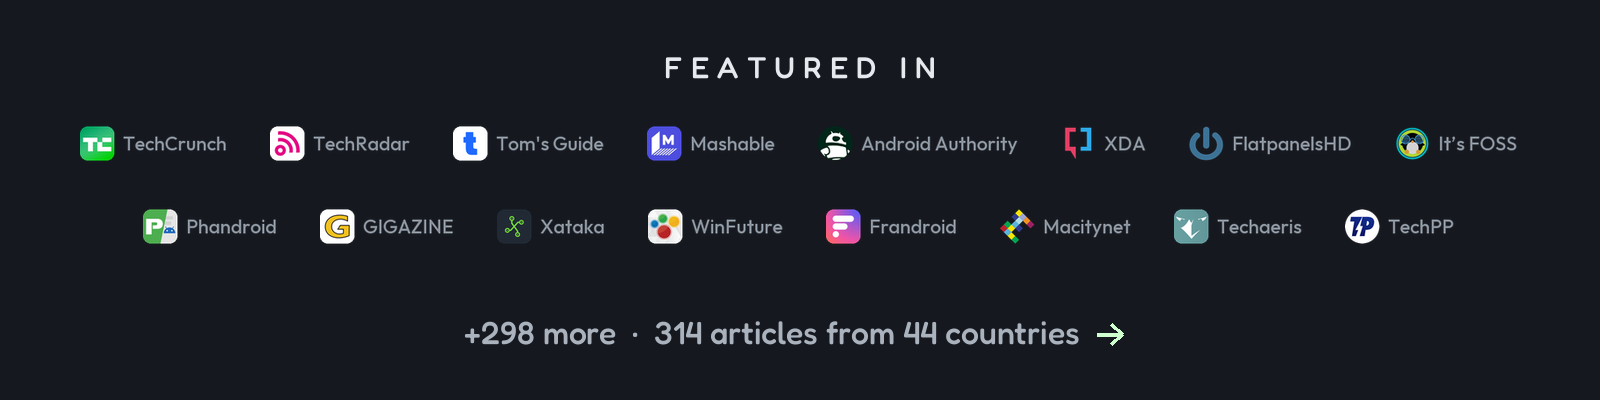
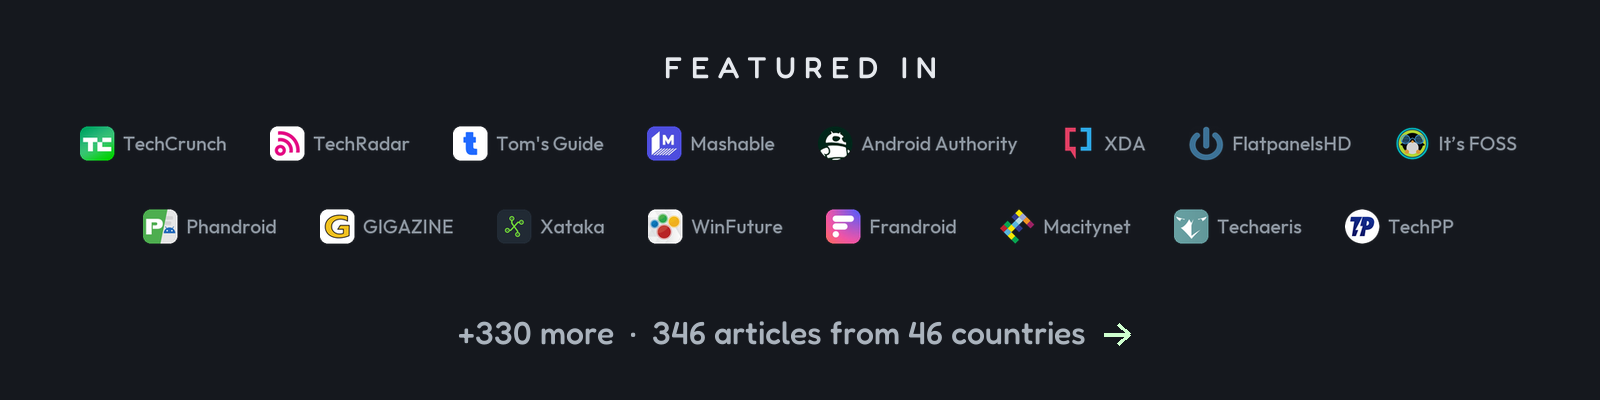
Press: 32 articles from the 30 Oct sweep, 346 from 46 countries
docs/PRESS.md follows the site's lib/press.ts again (Quickfever, added here in #2375, is now on the site too, so both lists hold the same 346). New: MEEDIA and Mein-MMO, Sina Finance, Sohu, China.com and 21财经, Gizmodo Japan, jeuxvideo.com, Một Thế Giới and CafeBiz, HK01, Foro3D, El Chapuzas Informático, ADSLZone, La Razón and BandaAncha, Svetapple.sk and TOUCHIT.sk, Ekhbary24, Observatório Tech, TecnoAndroid and IlSoftware.it, Respawn and Habr, Semana, TugaTech, The Times of India, TechJuice, Bitdoze in English and Spanish, and two new countries, Lithuania (Cybernews) and Morocco (Nichan). Each page was re-opened to confirm it names CleanYourTV, tv-vibehack or Gathin. The card alt text in README.md, README.nl.md and README.de.md and MORE in tools/readme_featured.py move to +330 more, 346 articles from 46 countries; docs/featured.png, docs/card.jpg and docs/card-halloween.jpg are redrawn.

Changed region(s): [[0.2812, 0.81, 0.7188, 0.87], [0.4375, 0.15, 0.5938, 0.21]]

diff --git a/tests/test_press_counts.py b/tests/test_press_counts.py
@@ -335,7 +335,7 @@ class VideoReaderTest(unittest.TestCase):
         self.assertEqual([], video_problems(self.page(rows, count=2)))
 
     def test_the_article_rows_are_not_read_as_videos(self):
-        # The real page opens with 314 article rows over 46 sections; only what follows '## Videos' is a video.
+        # The real page opens with 346 article rows over 48 sections; only what follows '## Videos' is a video.
         problems = video_problems(self.page([self.row(1)], count=1))
         self.assertEqual([], problems)
         self.assertEqual(1, len(videos(self.page([self.row(1)], count=1))))

diff --git a/tools/readme_card.py b/tools/readme_card.py
@@ -222,7 +222,7 @@ def decorate(card):
 stats, featured = load("docs/stats-halloween.png" if HALLOWEEN else "docs/stats.png"), load("docs/featured.png")
 if HALLOWEEN:
     heading(featured, (650, 50, 950, 85))     # "FEATURED IN"
-    tint(featured, (1090, 315, 1135, 352))    # the arrow after "314 articles"
+    tint(featured, (1090, 315, 1135, 352))    # the arrow after "346 articles"
 parts = [stats, featured, tv]
 SEP = 24  # extra air on each side of a divider
 H = sum(p.height for p in parts) + 2 * SEP * (len(parts) - 1)

diff --git a/tools/readme_featured.py b/tools/readme_featured.py
@@ -63,7 +63,7 @@ if OUT_PROBLEM:
 
 LOGOS = ["techcrunch", "techradar", "tomsguide", "mashable", "androidauthority", "xda", "flatpanelshd", "itsfoss",
          "phandroid", "gigazine", "xataka", "winfuture", "frandroid", "macitynet", "techaeris", "techpp"]
-MORE = "+298 more  ·  314 articles from 44 countries"
+MORE = "+330 more  ·  346 articles from 46 countries"
 
 
 def logo_problem():

diff --git a/docs/PRESS.md b/docs/PRESS.md
@@ -1,10 +1,10 @@
 # CleanYourTV in the press
 
-Every article about CleanYourTV (called tv-vibehack until 19 October 2026) that we could open and check: **314 articles**, 265 of them from outlets in 44 countries, 10 from Spanish-language sites in Latin America and 39 from newsletters, blogs and AI news sites. Headlines are in the language they were published in. Syndicated copies and auto-generated listings are left out. [147 videos](#videos) follow the articles.
+Every article about CleanYourTV (called tv-vibehack until 19 October 2026) that we could open and check: **346 articles**, 294 of them from outlets in 46 countries, 11 from Spanish-language sites in Latin America and 41 from newsletters, blogs and AI news sites. Headlines are in the language they were published in. Syndicated copies and auto-generated listings are left out. [147 videos](#videos) follow the articles.
 
 Wrote about it and not here? Open an issue or a pull request with the link.
 
-[United States](#united-states)&nbsp;24 · [United Kingdom](#united-kingdom)&nbsp;5 · [India](#india)&nbsp;5 · [Denmark](#denmark)&nbsp;1 · [Japan](#japan)&nbsp;4 · [Bangladesh](#bangladesh)&nbsp;2 · [United Arab Emirates](#united-arab-emirates)&nbsp;1 · [France](#france)&nbsp;20 · [Germany](#germany)&nbsp;8 · [Spain](#spain)&nbsp;9 · [Italy](#italy)&nbsp;17 · [Norway](#norway)&nbsp;1 · [Portugal](#portugal)&nbsp;5 · [Czechia](#czechia)&nbsp;4 · [Ukraine](#ukraine)&nbsp;4 · [Greece](#greece)&nbsp;6 · [Egypt](#egypt)&nbsp;5 · [Brazil](#brazil)&nbsp;17 · [Latin America (Spanish-language)](#latin-america-spanish-language)&nbsp;10 · [China](#china)&nbsp;31 · [Taiwan](#taiwan)&nbsp;8 · [Indonesia](#indonesia)&nbsp;18 · [Thailand](#thailand)&nbsp;3 · [Vietnam](#vietnam)&nbsp;9 · [Netherlands](#netherlands)&nbsp;4 · [Poland](#poland)&nbsp;8 · [Russia](#russia)&nbsp;13 · [Belarus](#belarus)&nbsp;2 · [Turkey](#turkey)&nbsp;4 · [Jordan](#jordan)&nbsp;1 · [South Korea](#south-korea)&nbsp;4 · [Australia](#australia)&nbsp;2 · [Pakistan](#pakistan)&nbsp;1 · [Hungary](#hungary)&nbsp;2 · [Saudi Arabia](#saudi-arabia)&nbsp;1 · [Romania](#romania)&nbsp;3 · [Sweden](#sweden)&nbsp;2 · [Hong Kong](#hong-kong)&nbsp;2 · [Bulgaria](#bulgaria)&nbsp;2 · [Slovakia](#slovakia)&nbsp;1 · [Belgium](#belgium)&nbsp;1 · [Kenya](#kenya)&nbsp;1 · [Israel](#israel)&nbsp;2 · [Finland](#finland)&nbsp;1 · [Serbia](#serbia)&nbsp;1 · [Online (newsletters, blogs, AI news)](#online-newsletters-blogs-ai-news)&nbsp;39
+[United States](#united-states)&nbsp;24 · [United Kingdom](#united-kingdom)&nbsp;5 · [India](#india)&nbsp;6 · [Denmark](#denmark)&nbsp;1 · [Japan](#japan)&nbsp;5 · [Bangladesh](#bangladesh)&nbsp;2 · [United Arab Emirates](#united-arab-emirates)&nbsp;1 · [France](#france)&nbsp;21 · [Germany](#germany)&nbsp;10 · [Spain](#spain)&nbsp;14 · [Italy](#italy)&nbsp;19 · [Norway](#norway)&nbsp;1 · [Portugal](#portugal)&nbsp;6 · [Czechia](#czechia)&nbsp;4 · [Ukraine](#ukraine)&nbsp;4 · [Greece](#greece)&nbsp;6 · [Egypt](#egypt)&nbsp;6 · [Brazil](#brazil)&nbsp;18 · [Latin America (Spanish-language)](#latin-america-spanish-language)&nbsp;11 · [China](#china)&nbsp;35 · [Taiwan](#taiwan)&nbsp;8 · [Indonesia](#indonesia)&nbsp;18 · [Thailand](#thailand)&nbsp;3 · [Vietnam](#vietnam)&nbsp;11 · [Netherlands](#netherlands)&nbsp;4 · [Poland](#poland)&nbsp;8 · [Russia](#russia)&nbsp;15 · [Belarus](#belarus)&nbsp;2 · [Turkey](#turkey)&nbsp;4 · [Jordan](#jordan)&nbsp;1 · [South Korea](#south-korea)&nbsp;4 · [Australia](#australia)&nbsp;2 · [Pakistan](#pakistan)&nbsp;2 · [Hungary](#hungary)&nbsp;2 · [Saudi Arabia](#saudi-arabia)&nbsp;1 · [Romania](#romania)&nbsp;3 · [Sweden](#sweden)&nbsp;2 · [Hong Kong](#hong-kong)&nbsp;3 · [Bulgaria](#bulgaria)&nbsp;2 · [Slovakia](#slovakia)&nbsp;3 · [Belgium](#belgium)&nbsp;1 · [Kenya](#kenya)&nbsp;1 · [Israel](#israel)&nbsp;2 · [Finland](#finland)&nbsp;1 · [Serbia](#serbia)&nbsp;1 · [Lithuania](#lithuania)&nbsp;1 · [Morocco](#morocco)&nbsp;1 · [Online (newsletters, blogs, AI news)](#online-newsletters-blogs-ai-news)&nbsp;41
 
 ## United States
 
@@ -54,6 +54,7 @@ Wrote about it and not here? Open an issue or a pull request with the link.
 | SSBCrack News | [DIY Hacks Allow Consumers to "Vibe-Code" Their Smart TVs, Eliminating Ads and Bloatware](https://news.ssbcrack.com/diy-hacks-allow-consumers-to-vibe-code-their-smart-tvs-eliminating-ads-and-bloatware/) | 19&nbsp;Oct |
 | Analytics Insight | [How AI Tools Can Make Old Smart TVs Faster](https://www.analyticsinsight.net/ampstories/artificial-intelligence/how-ai-tools-can-make-old-smart-tvs-faster) | 21&nbsp;Oct |
 | Fossbytes | [People Are Using Vibe Coding to Block Ads on Smart TVs](https://fossbytes.com/people-are-using-vibe-coding-to-block-ads-on-smart-tvs/) | 26&nbsp;Oct |
+| The Times of India | [Why smart TV owners are using AI to make their televisions 'dumb', and the risks that come with it](https://timesofindia.indiatimes.com/technology/tech-news/why-smart-tv-owners-are-using-ai-to-make-their-televisions-dumb-and-the-risks-that-come-with-it/articleshow/135264894.cms) | 28&nbsp;Oct |
 
 ## Denmark
 
@@ -69,6 +70,7 @@ Wrote about it and not here? Open an issue or a pull request with the link.
 | 生成AIキュレーター (note) | [4年前のテレビをClaudeに任せた開発者、プロンプトの大半は「禁止事項」だった——8つのルールから読むエージェントの任せ方](https://note.com/ai_curator/n/ne9a7dff77e27) | 20&nbsp;Oct |
 | note (Yuki) | [Google TVとAndroid TVのUIをクリーンに！Gathin23/cleanyourtvの解説](https://note.com/arti_sanal/n/n9fcaa04939eb) | 20&nbsp;Oct |
 | テクノエッジ TechnoEdge | [Android/Google TVの“広告やおすすめ枠”を消してApple TV風シンプルUIにするOSS無料ツール「CleanYourTV」](https://www.techno-edge.net/article/2026/10/27/5632.html) | 27&nbsp;Oct |
+| ギズモード・ジャパン Gizmodo Japan | [AIを駆使してスマートテレビを「古き良き時代のテレビ」に戻す人たち。](https://www.gizmodo.jp/article/2610-ai-smart-tv-retro/) | 30&nbsp;Oct |
 
 ## Bangladesh
 
@@ -107,6 +109,7 @@ Wrote about it and not here? Open an issue or a pull request with the link.
 | LoKan.fr | [Accélérer sa vieille TV Android avec Claude Code](https://lokan.fr/2026/10/24/comment-accelerer-tv-android-claude-code/) | 24&nbsp;Oct |
 | BuzzArena | [Ils supprimaient la publicité de leur TV Xiaomi avec Claude, Anthropic leur bloque l'accès à l'IA](https://www.buzzarena.com/ils-supprimaient-la-publicite-de-leur-tv-xiaomi-avec-claude-anthropic-leur-bloque-lacces-a-lia-4566360) | 26&nbsp;Oct |
 | Frandroid | [Samsung sous Tizen OS : on a construit un accueil sans pub avec l’IA](https://www.frandroid.com/marques/samsung/3298629_samsung-sous-tizen-os-on-a-construit-un-accueil-sans-pub-avec-lia) | 26&nbsp;Oct |
+| jeuxvideo.com | [Pour retirer les publicités et rendre la navigation plus fluide sur leur TV, les gamers ont trouvé une nouvelle solution](https://www.jeuxvideo.com/news/2111356/pour-retirer-les-publicites-et-rendre-la-navigation-plus-fluide-sur-leur-tv-les-gamers-ont-trouve-une-nouvelle-solution.htm) | 30&nbsp;Oct |
 
 ## Germany
 
@@ -120,6 +123,8 @@ Wrote about it and not here? Open an issue or a pull request with the link.
 | TechZeitGeist | [Werbung auf dem Smart-TV: Was sich abschalten lässt und was nicht](https://www.techzeitgeist.de/werbung-auf-dem-smart-tv-was-sich-abschalten-laesst-und-was-nicht/) | 24&nbsp;Oct |
 | iFun.de | [CleanYourTV: Befreit Android-TVs von Werbung und Ballast](https://www.ifun.de/cleanyourtv-befreit-android-tvs-von-werbung-und-ballast-293435/) | 26&nbsp;Oct |
 | Golem.de | [Entrümpelung per Agent-KI: Agenten entfernen Werbung von Smart-TVs](https://www.golem.de/news/entruempelung-per-agent-ki-agenten-entfernen-werbung-von-smart-tvs-2610-214283.html) | – |
+| MEEDIA | [Vibe Coding gegen die Werbeflut: Wenn Smart-TV-Besitzer das Betriebssystem hacken](https://meedia.de/news/beitrag/25333-vibe-coding-gegen-werbung-wenn-smart-tv-besitzer-das-betriebssystem-hacken.html) | 30&nbsp;Oct |
+| Mein-MMO | [Ein Nutzer baut eine App mit Claude, um das TV-Gerät seiner Eltern von unnötiger Software zu befreien](https://mein-mmo.de/vibecoder-baut-app-claude-tv-reinigen/) | 28&nbsp;Oct |
 
 ## Spain
 
@@ -134,6 +139,11 @@ Wrote about it and not here? Open an issue or a pull request with the link.
 | Soy Marketing Ultra | [CleanYourTV: Remove Android TV Bloatware Safely](https://soymarketingultra.com/en/remove-android-tv-bloatware-cleanyourtv/) | 24&nbsp;Oct |
 | App Guías (Nederlands) | [AI om advertenties van smart-tv](https://www.appguias.com/nl/Advertentieverwijdering-op-slimme-tv's-met-behulp-van-AI:-wat-werkt-en-wat-niet/) | 21&nbsp;Oct |
 | Seguidores.online (Nederlands) | [AI verwijdert advertenties van je smart-tv: hoe werkt het?](https://seguidores.online/nl/De-AI-die-advertenties-van-je-smart-tv-verwijdert./) | 21&nbsp;Oct |
+| Foro3D | [CleanYourTV 3.0: control total de tu Android TV sin root y con 300 modelos](https://foro3d.com/2026/octubre/cleanyourtv-30-control-total-de-tu-android-tv-sin-root-y-con-300-model.html) | 29&nbsp;Oct |
+| El Chapuzas Informático | [CleanYourTV 3.0: así puedes eliminar anuncios y bloatware de tu TV Android y Google TV](https://elchapuzasinformatico.com/2026/10/cleanyourtv-3-0/) | 28&nbsp;Oct |
+| ADSLZone | [Mi Smart TV estaba llena de basura, publicidad y aplicaciones que nunca pedí: he recuperado el control sin pagar un duro](https://www.adslzone.net/noticias/streaming-tv/cleanyourtv-limpiar-smart-tv-android-tv-google/) | 27&nbsp;Oct |
+| La Razón | [Usuarios hartos de la publicidad en sus televisores recurren a la IA para eliminarla](https://www.larazon.es/tecnologia/usuarios-hartos-publicidad-sus-televisores-recurren-eliminarla_202610276ae0e294a2570c1961b34b6a.html) | 27&nbsp;Oct |
+| BandaAncha (forum) | [Clean Your TV: limpia la publicidad y el bloatware de tu Android TV desde el móvil, sin PC ni cables.](https://bandaancha.eu/foros/clean-your-tv-limpia-publicidad-1761313) | 25&nbsp;Oct |
 
 ## Italy
 
@@ -156,6 +166,8 @@ Wrote about it and not here? Open an issue or a pull request with the link.
 | Pasquale Pillitteri | [Researcher claims Samsung TV microphone is always on](https://pasqualepillitteri.it/en/news/26796/samsung-tvs-researcher-claims-microphone-always-on) | 24&nbsp;Oct |
 | Pasquale Pillitteri | [How to turn off the Samsung TV microphone for dogs and babies](https://pasqualepillitteri.it/en/news/27088/how-to-turn-off-samsung-tv-microphone-dogs-babies) | 25&nbsp;Oct |
 | Pasquale Pillitteri | [Claude Opus 5.5 blocca il reverse engineering delle smart TV?](https://pasqualepillitteri.it/news/27019/claude-opus-5-5-blocca-reverse-engineering-smart-tv) | 25&nbsp;Oct |
+| TecnoAndroid | [Claude Code libera le smart TV da pubblicità e tracciamento](https://www.tecnoandroid.it/news/claude-code-libera-le-smart-tv-da-pubblicita-e-tracciamento-2000117/) | 28&nbsp;Oct |
+| IlSoftware.it | [CleanYourTV 3.0 elimina pubblicità e bloatware da 300 modelli di TV](https://www.ilsoftware.it/cleanyourtv-3-0-elimina-pubblicita-e-bloatware-da-300-modelli-di-tv/) | 28&nbsp;Oct |
 
 ## Norway
 
@@ -172,6 +184,7 @@ Wrote about it and not here? Open an issue or a pull request with the link.
 | 4gnews | [Estas ferramentas de IA prometem acabar com os anúncios das Smart TVs](https://4gnews.pt/estas-ferramentas-de-ia-prometem-acabar-com-os-anuncios-das-smart-tvs/) | 21&nbsp;Oct |
 | TugaTech | [Utilizadores estão a usar IA para tornar as suas Smart TVs mais "estúpidas" e remover publicidade](https://tugatech.com.pt/t92999-utilizadores-estao-a-usar-ia-para-tornar-as-suas-smart-tvs-mais-estupidas-e-remover-publicidade) | – |
 | SAPO Tek | [TV Detox: o projeto que usa o Claude para limpar a smart TV de aplicações e publicidade](https://tek.sapo.pt/noticias/computadores/artigos/tv-detox-o-projeto-que-usa-o-claude-para-limpar-a-smart-tv-de-aplicacoes-e-publicidade/) | 24&nbsp;Oct |
+| TugaTech | [CleanYourTV 3.0 chega para remover anúncios e bloatware de centenas de televisões](https://tugatech.com.pt/t93531-cleanyourtv-3-0-chega-para-remover-anuncios-e-bloatware-de-centenas-de-televisoes) | 28&nbsp;Oct |
 
 ## Czechia
 
@@ -211,6 +224,7 @@ Wrote about it and not here? Open an issue or a pull request with the link.
 | Youm7 (اليوم السابع) | [الذكاء الاصطناعي يساعد المستخدمين على حذف إعلانات التلفزيون الذكية](https://www.youm7.com/story/2026/10/22/الذكاء-الاصطناعي-يساعد-المستخدمين-على-حذف-إعلانات-التلفزيون-الذكية/7586888) | 22&nbsp;Oct |
 | Sada El Balad (صدى البلد) | [وداعاً للإعلانات المزعجة.. الذكاء الاصطناعي يطهر شاشات التلفزيون الذكية](https://www.elbalad.news/7149578) | 21&nbsp;Oct |
 | Fintechgate | [الذكاء الاصطناعي يحوّل أجهزة التلفزيون الذكية إلى شاشات خالية من الإعلانات والتجسس](https://www.fintechgate.net/254958) | 19&nbsp;Oct |
+| Ekhbary24 (إخباري 24) | [الذكاء الاصطناعي ينظف شاشات التلفزيون الذكية من الإعلانات](https://ekhbary24.com/article/29355) | 29&nbsp;Oct |
 
 ## Brazil
 
@@ -233,6 +247,7 @@ Wrote about it and not here? Open an issue or a pull request with the link.
 | Hardware.com.br | [Usuários usam IA para remover anúncios e rastreamento de smart TVs](https://www.hardware.com.br/?p=384756) | 24&nbsp;Oct |
 | O Cafezinho | [Donos de smart TV usam IA para tirar anúncios e rastreamento, diz TechCrunch](https://www.ocafezinho.com/2026-10-19/donos-de-smart-tv-usam-ia-para-tirar-anuncios-e-rastreamento-diz-techcrunch/) | 19&nbsp;Oct |
 | Ver-o-Fato | [Inteligência artificial permite modificar smart TVs e eliminar aplicativos indesejados](https://ver-o-fato.com.br/inteligencia-artificial-permite-modificar-smart-tvs-e-eliminar-aplicativos-indesejados/) | 23&nbsp;Oct |
+| Observatório Tech | [Adeus lentidão e anúncios: projeto viral promete limpeza visual em Smart TVs](https://observatoriotech.com.br/noticia/adeus-lentidao-e-anuncios-projeto-viral-promete-limpeza-visual-em-smart-tvs/) | 29&nbsp;Oct |
 
 ## Latin America (Spanish-language)
 
@@ -248,6 +263,7 @@ Wrote about it and not here? Open an issue or a pull request with the link.
 | OneDigital | [CleanYourTV limpia tu Android TV de publicidad con IA](https://onedigital.mx/2026/10/21/cleanyourtv-limpiar-android-tv/) | 21&nbsp;Oct |
 | ENTER.CO | [¿Cómo volver 'tonto' tu smart TV con IA para quitarle los anuncios?](https://www.enter.co/chips-bits/como-volver-tonto-smart-tv-ia-anuncios/) | 21&nbsp;Oct |
 | Digital Trends Español | [Cómo usar IA para convertir tu Smart TV en una TV “tonta” y eliminar anuncios, rastreo y bloatware](https://es.digitaltrends.com/inteligente/como-usar-ia-convertir-smart-tv-tv-tonta-guia/) | 20&nbsp;Oct |
+| Semana | [Cómo quitar los anuncios de los televisores con inteligencia artificial: el truco para reducir la publicidad invasiva](https://www.semana.com/tecnologia/articulo/como-quitar-los-anuncios-de-los-televisores-con-inteligencia-artificial-el-truco-para-reducir-la-publicidad-invasiva/202654/) | 28&nbsp;Oct |
 
 ## China
 
@@ -284,6 +300,10 @@ Wrote about it and not here? Open an issue or a pull request with the link.
 | CSDN | [5 分钟上手：用 AI 把智能电视的广告和垃圾软件一键清干净](https://blog.csdn.net/gitblog_01132/article/details/168661872) | – |
 | 知乎专栏 Zhihu | [让 Claude Code 爆改电视，这个开源项目有点意思！](https://zhuanlan.zhihu.com/p/2095920498823652264) | – |
 | 知乎专栏 Zhihu | [安卓 TV 去广告开源工具走红，电视厂商广告收入承压](https://zhuanlan.zhihu.com/p/2095856104622368561) | – |
+| 新浪财经 Sina Finance | [AI帮用户关广告，小米们的“互联网模式”迎来大考](https://finance.sina.com.cn/stock/t/2026-10-30/doc-iniwyfvy5653644.shtml) | 30&nbsp;Oct |
+| 搜狐 Sohu | [电视去广告、小米跑iOS和鸿蒙？！AI总算干点“人事”了……](https://m.sohu.com/a/1094844169_463965) | 30&nbsp;Oct |
+| 中华网 China.com | [网友嫌广告太多用AI爆改电视 智能电视大扫除](https://news.china.com/socialgd/10000169/20261029/49826394.html) | 29&nbsp;Oct |
+| 21财经 | [用AI“一键清理”智能电视广告：门槛消失后，法律红线在哪？](https://www.21jingji.com/article/20261027/herald/dfe53dfe0806e95afe60d64053079ea7.html) | 27&nbsp;Oct |
 
 ## Taiwan
 
@@ -342,6 +362,8 @@ Wrote about it and not here? Open an issue or a pull request with the link.
 | 24h.com.vn | [Nở rộ trào lưu dùng AI dọn dẹp quảng cáo và phần mềm rác trên Smart TV](https://www.24h.com.vn/cong-nghe-thong-tin/no-ro-trao-luu-dung-ai-don-dep-quang-cao-va-phan-mem-rac-tren-smart-tv-c55a1805057.html) | 23&nbsp;Oct |
 | GenK | [Nhờ Claude vibe code biến TV thành "Jarvis", nói một câu là Netflix tự chạy](https://genk.vn/nho-claude-vibe-code-bien-tv-thanh-jarvis-noi-mot-cau-la-netflix-tu-chay-165262610142221263.chn) | 26&nbsp;Oct |
 | Báo Hà Tĩnh | [Dùng Claude để "giải cứu" ti vi cũ](https://baohatinh.vn/dung-claude-de-giai-cuu-ti-vi-cu-post319150.html) | 22&nbsp;Oct |
+| Một Thế Giới | [Trào lưu dùng AI tạo ứng dụng chặn quảng cáo trên TV thông minh](https://1thegioi.vn/trao-luu-dung-ai-tao-ung-dung-chan-quang-cao-tren-tv-thong-minh-260702.html) | 30&nbsp;Oct |
+| CafeBiz | [Nhờ Claude vibe code biến TV thành "Jarvis", nói một câu là Netflix tự chạy](https://cafebiz.vn/nho-claude-vibe-code-bien-tv-thanh-jarvis-noi-mot-cau-la-netflix-tu-chay-176261026203322156.chn) | 27&nbsp;Oct |
 
 ## Netherlands
 
@@ -382,6 +404,8 @@ Wrote about it and not here? Open an issue or a pull request with the link.
 | Carexpo.ru | [Умные телевизоры становятся «глупыми»: ИИ помогает избавиться от рекламы и слежки](https://carexpo.ru/ii-na-strazhe-vashikh-nervov-kak-sdelat-televizor-glupym-i-izbavitsya-ot-reklamy) | 25&nbsp;Oct |
 | Habr | [OpenAI и Anthropic ограничили использование своих ИИ-моделей для создания бесплатных клонов платного ПО](https://habr.com/ru/news/1099152/) | 26&nbsp;Oct |
 | Клуб DNS | [Владельцы умных телевизоров стали использовать ИИ для отключения рекламы и слежки](https://club.dns-shop.ru/digest/186725-vladeltsyi-umnyih-televizorov-stali-ispolzovat-ii-dlya-otklucheniya/) | 20&nbsp;Oct |
+| Respawn | [Что на самом деле умеет смарт-ТВ, если подключить к нему ИИ](https://respawn.media/tech/7v6ex-chto-na-samom-dele-umeet-smart-tv-esli-podklyuchit-k-nemu-ii) | 28&nbsp;Oct |
+| Habr | [Вылечил лагающий телевизор Xiaomi за 10 минут: реклама, слежка и YouTube — без root и с откатом](https://habr.com/ru/articles/1097472/) | 21&nbsp;Oct |
 
 ## Belarus
 
@@ -426,6 +450,7 @@ Wrote about it and not here? Open an issue or a pull request with the link.
 | Outlet | Article | Date |
 | --- | --- | --- |
 | ProPakistani | [People Are Using AI to Make Smart TVs Faster, Safer, and Ad-Free](https://propakistani.pk/2026/10/21/people-are-using-ai-to-make-smart-tvs-faster-safer-and-ad-free/) | 21&nbsp;Oct |
+| TechJuice | [AI Tools Can Unlock Hidden CarPlay in Android Car Head Units](https://www.techjuice.pk/hidden-carplay-android-head-units-ai-unlock-trend/) | 27&nbsp;Oct |
 
 ## Hungary
 
@@ -461,6 +486,7 @@ Wrote about it and not here? Open an issue or a pull request with the link.
 | --- | --- | --- |
 | 流動日報 New Mobile Life | [CleanYourTV 經 Wi-Fi 清理 Android 電視　換上 Apple TV 風格主畫面](https://www.newmobilelife.com/2026/10/24/cleanyourtv-android-tv-cleanup/) | 24&nbsp;Oct |
 | ezone.hk | [智能電視成日滿屏廣告？外國掀起「Dumb TV」熱潮　用 AI 清走廣告廢 App 還原極簡風格【附熱門工具推薦】](https://ezone.hk/article/20115279) | 26&nbsp;Oct |
+| 香港01 HK01 | [Android TV廣告多好Lag？教你靠AI提速　主畫面秒變Apple TV](https://www.hk01.com/%E5%AF%A6%E7%94%A8%E6%95%99%E5%AD%B8/60404790/android-tv%E5%BB%A3%E5%91%8A%E5%A4%9A%E5%A5%BDlag-%E6%95%99%E4%BD%A0%E9%9D%A0ai%E6%8F%90%E9%80%9F-%E4%B8%BB%E7%95%AB%E9%9D%A2%E7%A7%92%E8%AE%8Aapple-tv) | 29&nbsp;Oct |
 
 ## Bulgaria
 
@@ -474,6 +500,8 @@ Wrote about it and not here? Open an issue or a pull request with the link.
 | Outlet | Article | Date |
 | --- | --- | --- |
 | Gamesite.sk | [Zmenili váš televízor na reklamnú plochu? Vývojári si vďaka AI pripravili nástroje, ktoré tomu zabránia](https://gamesite.zoznam.sk/zmenili-vas-televizor-na-reklamnu-plochu-vyvojari-si-vdaka-ai-pripravili-nastroje-ktore-tomu-zabrania/) | 20&nbsp;Oct |
+| Svetapple.sk | [Ľudia mažú reklamy zo Smart TV pomocou AI. Stačí 15 minút, no hrozí VEĽKÉ riziko](https://svetapple.sk/lifestyle/tv-streamovacie-platformy/ludia-mazu-reklamy-zo-smart-tv-pomocou-ai-staci-15-minut-no-hrozi-velke-riziko/) | 29&nbsp;Oct |
+| TOUCHIT.sk | [Špeciálne aplikácie odstránia zo Smart TV reklamy a upravia rozhranie](https://touchit.sk/specialne-aplikacie-odstrania-zo-smart-tv-reklamy-a-upravia-rozhranie/934163/) | 27&nbsp;Oct |
 
 ## Belgium
 
@@ -505,6 +533,18 @@ Wrote about it and not here? Open an issue or a pull request with the link.
 | Outlet | Article | Date |
 | --- | --- | --- |
 | Kurir | [Ljudi koriste AI da uklone reklame sa pametnih televizora: Evo kako ih vraćaju na staro](https://www.kurir.rs/techvision/saveti/10139632/reklame-na-pametnim-televizorima-kako-ih-ukloniti-uz-ai) | 20&nbsp;Oct |
+
+## Lithuania
+
+| Outlet | Article | Date |
+| --- | --- | --- |
+| Cybernews | [Smart TV debloating movement explodes on GitHub: AI removes tracking](https://cybernews.com/security/smart-tv-debloating-movement-cleanyourtv-explodes-on-github/) | 27&nbsp;Oct |
+
+## Morocco
+
+| Outlet | Article | Date |
+| --- | --- | --- |
+| Nichan (نيشان) | [الذكاء الاصطناعي يقود تمرداً على إعلانات التلفزيونات الذكية وجمع بيانات المشاهدة](https://nichan.ma/373118/) | 27&nbsp;Oct |
 
 ## Online (newsletters, blogs, AI news)
 
@@ -548,6 +588,8 @@ Wrote about it and not here? Open an issue or a pull request with the link.
 | PaidFreeDroid | [CleanYourTV Guide: Remove Ads From Android TV in 5 Minutes](https://paidfreedroid.com/2026/10/cleanyourtv-guide-remove-android-tv-ads-bloatware.html) | 24&nbsp;Oct |
 | daily.dev | [People are using AI to make their smart TVs dumb again](https://daily.dev/posts/people-are-using-ai-to-make-their-smart-tvs-dumb-again-w4vznkz9w) | 19&nbsp;Oct |
 | Archyde | [Smart TV Owners Use AI Coding Assistants to Remove Bloatware](https://www.archyde.com/smart-tv-owners-use-ai-coding-assistants-to-remove-bloatware/) | 20&nbsp;Oct |
+| Bitdoze | [Replace Smart TV Home Screen & Remove Ads (Every TV OS)](https://www.bitdoze.com/smart-tv-custom-home-screen-remove-ads/) | 26&nbsp;Oct |
+| Bitdoze (Español) | [Cambia la Pantalla de Inicio de tu Smart TV sin Anuncios](https://www.bitdoze.com/es/pantalla-inicio-smart-tv-sin-anuncios/) | 26&nbsp;Oct |
 | Quickfever | [How to Debloat Your Android TV Using Antigravity (CleanYourTV Guide)](https://quickfever.com/how-to-debloat-your-android-tv-using-antigravity) | 28&nbsp;Oct |
 
 ## Videos

diff --git a/README.nl.md b/README.nl.md
@@ -26,7 +26,7 @@
 </p>
 
 <p align="center">
-  <a href="docs/PRESS.md"><img src="docs/card-halloween.jpg" alt="371 tv-modellen · 100 merken · 31 talen · launcher van 572 KB. Genoemd in TechCrunch, TechRadar, Tom's Guide, Mashable, Android Authority, XDA, FlatpanelsHD, It's FOSS, Phandroid, GIGAZINE, Xataka, WinFuture, Frandroid, Macitynet, Techaeris, TechPP en nog 298 media: 314 artikelen uit 44 landen. Voorheen: het standaard Google TV-startscherm met een gesponsorde advertentie. Daarna: de Clean Your TV-launcher." width="800"></a>
+  <a href="docs/PRESS.md"><img src="docs/card-halloween.jpg" alt="371 tv-modellen · 100 merken · 31 talen · launcher van 572 KB. Genoemd in TechCrunch, TechRadar, Tom's Guide, Mashable, Android Authority, XDA, FlatpanelsHD, It's FOSS, Phandroid, GIGAZINE, Xataka, WinFuture, Frandroid, Macitynet, Techaeris, TechPP en nog 330 media: 346 artikelen uit 46 landen. Voorheen: het standaard Google TV-startscherm met een gesponsorde advertentie. Daarna: de Clean Your TV-launcher." width="800"></a>
 </p>
 
 **De virale tweet:** [x.com/gathint/status/2111379569030939102](https://x.com/gathint/status/2111379569030939102)

diff --git a/README.de.md b/README.de.md
@@ -20,7 +20,7 @@
 </p>
 
 <p align="center">
-  <a href="docs/PRESS.md"><img src="docs/card-halloween.jpg" alt="371 TV-Modelle · 100 Marken · 31 Sprachen · Launcher mit 572 KB. Erwähnt in TechCrunch, TechRadar, Tom's Guide, Mashable, Android Authority, XDA, FlatpanelsHD, It's FOSS, Phandroid, GIGAZINE, Xataka, WinFuture, Frandroid, Macitynet, Techaeris, TechPP und 298 weitere: 314 Artikel aus 44 Ländern. Vorher: der Google-TV-Startbildschirm mit einer bezahlten Anzeige. Nachher: der Clean-Your-TV-Launcher." width="800"></a>
+  <a href="docs/PRESS.md"><img src="docs/card-halloween.jpg" alt="371 TV-Modelle · 100 Marken · 31 Sprachen · Launcher mit 572 KB. Erwähnt in TechCrunch, TechRadar, Tom's Guide, Mashable, Android Authority, XDA, FlatpanelsHD, It's FOSS, Phandroid, GIGAZINE, Xataka, WinFuture, Frandroid, Macitynet, Techaeris, TechPP und 330 weitere: 346 Artikel aus 46 Ländern. Vorher: der Google-TV-Startbildschirm mit einer bezahlten Anzeige. Nachher: der Clean-Your-TV-Launcher." width="800"></a>
 </p>
 
 ## Einstieg

diff --git a/README.md b/README.md
@@ -24,7 +24,7 @@
 </p>
 
 <p align="center">
-  <a href="docs/PRESS.md"><img src="docs/card-halloween.jpg" alt="371 TV models · 100 brands · 31 languages · 572 KB launcher. Featured in TechCrunch, TechRadar, Tom's Guide, Mashable, Android Authority, XDA, FlatpanelsHD, It's FOSS, Phandroid, GIGAZINE, Xataka, WinFuture, Frandroid, Macitynet, Techaeris, TechPP and 298 more: 314 articles from 44 countries. Before: stock Google TV home with a sponsored ad. After: the Clean Your TV launcher." width="800"></a>
+  <a href="docs/PRESS.md"><img src="docs/card-halloween.jpg" alt="371 TV models · 100 brands · 31 languages · 572 KB launcher. Featured in TechCrunch, TechRadar, Tom's Guide, Mashable, Android Authority, XDA, FlatpanelsHD, It's FOSS, Phandroid, GIGAZINE, Xataka, WinFuture, Frandroid, Macitynet, Techaeris, TechPP and 330 more: 346 articles from 46 countries. Before: stock Google TV home with a sponsored ad. After: the Clean Your TV launcher." width="800"></a>
 </p>
 
 ## Start here
